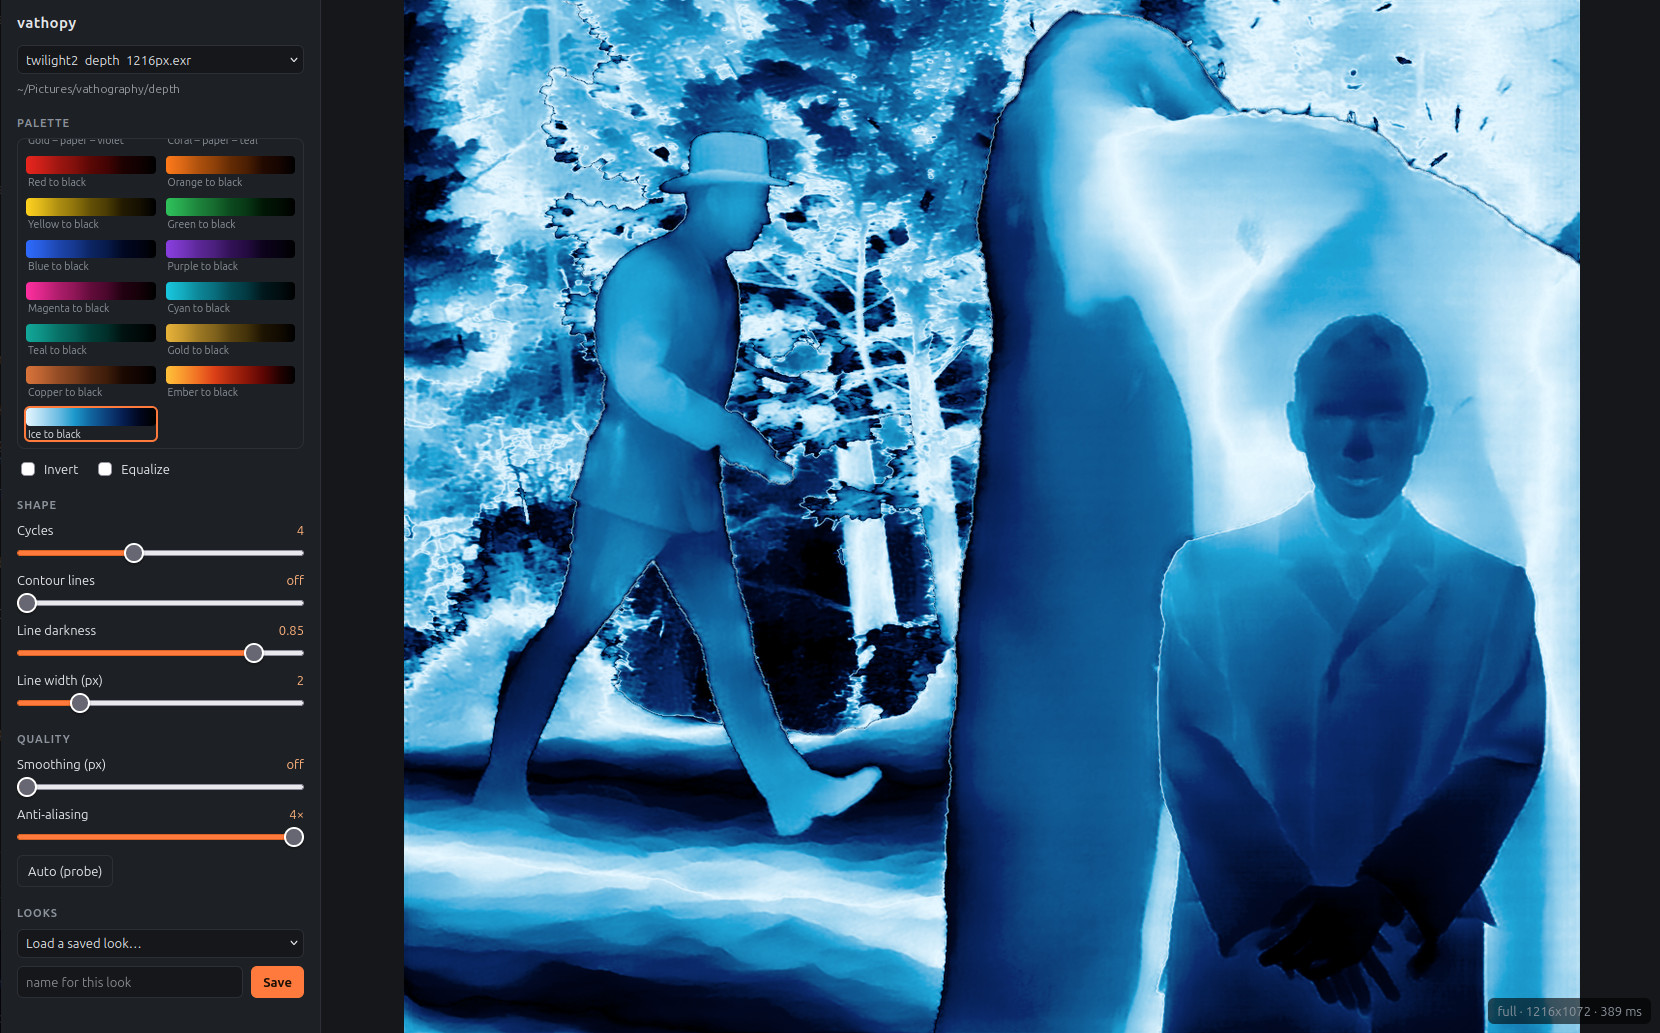
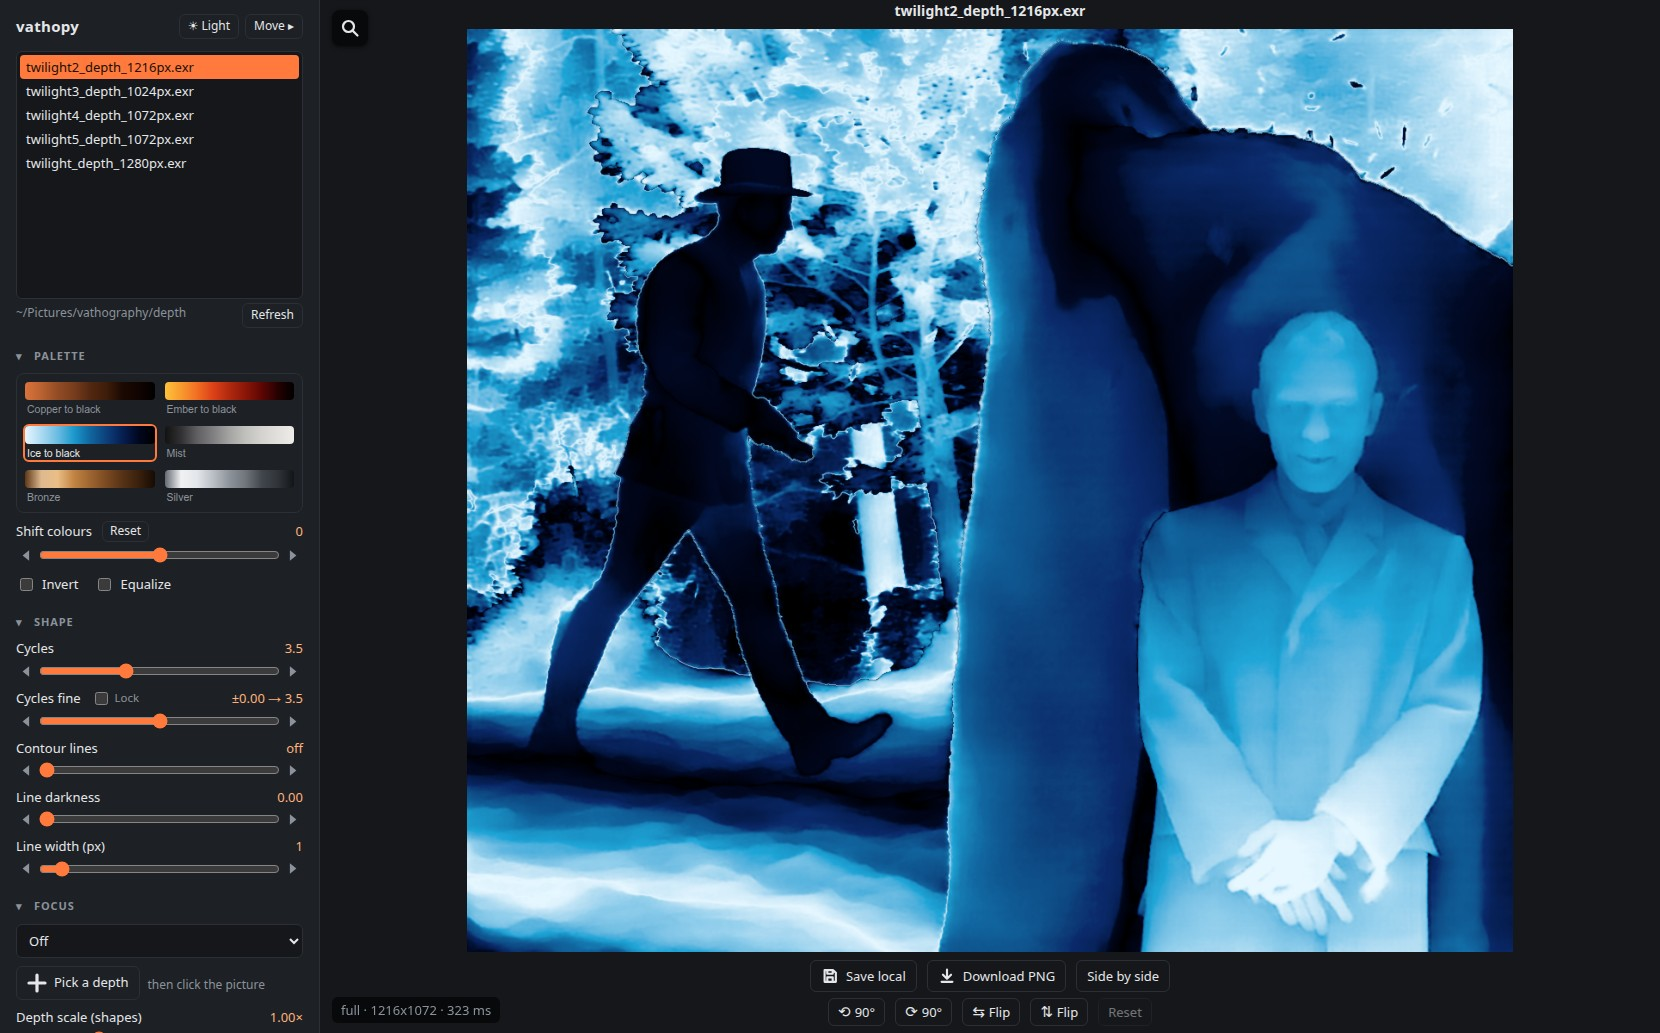
README: new GUI screenshot (current controls, twilight2, Ice to black)

diff --git a/README.md b/README.md
@@ -260,7 +260,7 @@ Both apply to everything (contours, cycles, bands, area edges), are look keys (`
 
 A small local web app (Python standard library server + one HTML page, no extra dependencies):
 
-![The vathopy GUI: palette swatches, sliders and the rendered picture](examples/webui-example.jpg)
+![The vathopy GUI: the depth-map list, palette swatches, sliders, and the rendered picture with its save, view and orientation buttons](examples/webui-example.jpg)
 
 #### Starting it
 
